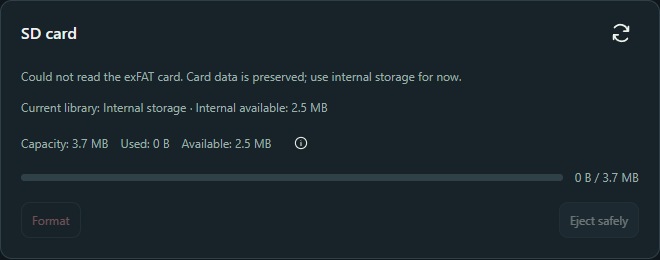
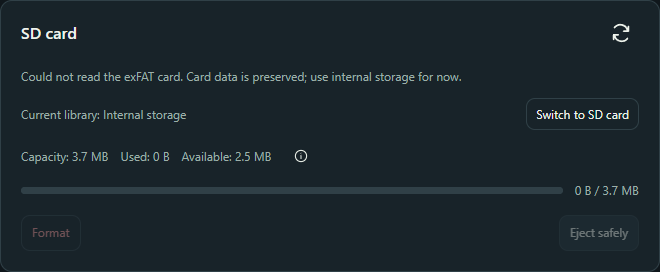
Publish sanitized firmware, controller and current bilingual previews

diff --git a/web/firmware.js b/web/firmware.js
@@ -173,10 +173,11 @@ function renderSdStatus(state){
   $('sdStatus').textContent=state.detail?tr(libraryErrors[state.detail]||state.detail):tr(state.state==='formatting'?'正在格式化 SD 卡…':state.mounted?'SD 卡已插入，状态正常':state.ejected?'SD 卡已安全弹出，可取出存储卡':state.sdFilesystem==='exfat'?(state.sdExfatSupported?'exFAT 读取失败，原卡数据保留，可先使用内置存储':'SD 卡为 exFAT，当前支持 FAT32；原卡数据保留，可先使用内置存储'):'SD 卡不可用，请检查插卡、文件系统或读卡连接');
   const internal=state.storageBackend==='internal';
   $('internalStorageStatus').hidden=!state.storageBackend;
-  $('internalStorageStatus').textContent=tr(internal?'当前稿件库：内置存储':state.storageBackend==='unavailable'?'当前稿件库：不可用':'当前稿件库：SD 卡')+(Number.isFinite(state.internalAvailableBytes)?' · '+tr('内置可用：')+documentSize(state.internalAvailableBytes):'');
-  $('internalStorage').hidden=internal||!state.storageBackend;
+  $('internalStorageStatus').textContent=tr(internal?'当前稿件库：内置存储':state.storageBackend==='unavailable'?'当前稿件库：不可用':'当前稿件库：SD 卡');
+  $('internalStorage').hidden=!state.storageBackend;
+  $('internalStorage').textContent=tr(internal?'切换到 SD 卡':'切换到内置存储');
   const internalTotal=state.internalTotalBytes,internalUsed=state.internalUsedBytes;
-  const internalCapacity=Number.isFinite(internalTotal)&&internalTotal>0&&Number.isFinite(internalUsed)&&Number.isFinite(state.internalAvailableBytes);
+  const internalCapacity=internal&&Number.isFinite(internalTotal)&&internalTotal>0&&Number.isFinite(internalUsed)&&Number.isFinite(state.internalAvailableBytes);
   $('internalCapacity').hidden=$('internalUsage').hidden=!internalCapacity;
   if(internalCapacity){
     const used=Math.max(0,Math.min(internalTotal,internalUsed)),percent=used/internalTotal*100;
@@ -189,7 +190,7 @@ function renderSdStatus(state){
   }
   const total=state.sdTotalBytes;
   const rawUsed=Number.isFinite(state.sdUsedBytes)?state.sdUsedBytes:total-state.sdFreeBytes;
-  const capacity=state.mounted!==false&&Number.isFinite(total)&&total>0&&Number.isFinite(rawUsed);
+  const capacity=state.storageBackend==='sd'&&state.mounted!==false&&Number.isFinite(total)&&total>0&&Number.isFinite(rawUsed);
   $('sdCapacity').hidden=!capacity;
   $('sdUsage').hidden=!capacity;
   if(capacity){
@@ -251,7 +252,7 @@ async function sdAction(action){
   }
   finally{finish();sdRequestPending=false;sdButtons();}
 }
-$('internalStorage').onclick=()=>sdAction('internal');
+$('internalStorage').onclick=()=>sdAction(sdState?.storageBackend==='internal'?'mount':'internal');
 $('sdMount').onclick=()=>sdAction('mount');$('sdEject').onclick=()=>sdAction('eject');$('sdFormat').onclick=()=>sdAction('format');
 $('deviceFactoryReset').onclick=async()=>{
   if(!online||busy||factoryResetConfirmPending||firmwareLocked()||firmwareState?.factoryResetSupported!==true)return;

diff --git a/web/controller.html b/web/controller.html
@@ -56,9 +56,10 @@
 <p class="context-status" id="firmwarePath"><span>SD 卡目录</span><code>/firmware/</code><button type="button" class="info-button" aria-label="固件文件命名说明" data-tooltip="固件文件名：teleprompter-p4-YYYYMMDD.N.bin；版本须与文件内版本一致。">ⓘ</button></p>
 <input id="firmwareFile" type="file" accept=".bin,application/octet-stream" hidden>
 </div></section><section class="wifi" id="sdSettings"><div class="settings-card-head"><h3 class="settings-title">SD 卡</h3><button id="sdMount" type="button" class="icon-button" data-device disabled>重新读取</button></div><div class="wifi-body">
-<p id="sdStatus" class="context-status" role="status">正在读取 SD 卡状态…</p><p id="sdCapacity" class="context-status" hidden><span id="sdTotal"></span><span id="sdUsed"></span><span id="sdFree"></span></p>
+<p id="sdStatus" class="context-status" role="status">正在读取 SD 卡状态…</p>
+<div class="storage-selection"><p id="internalStorageStatus" class="context-status" role="status"></p><button id="internalStorage" class="ghost" data-device disabled>切换到内置存储</button></div>
+<p id="sdCapacity" class="context-status" hidden><span id="sdTotal"></span><span id="sdUsed"></span><span id="sdFree"></span></p>
 <div id="sdUsage" class="sd-usage" hidden><progress id="sdUsageBar" max="100" value="0" aria-label="SD 卡已用容量"></progress><span id="sdUsagePercent" aria-hidden="true"></span></div>
-<div class="storage-selection"><p id="internalStorageStatus" class="context-status" role="status"></p><button id="internalStorage" class="ghost" data-device disabled>使用内置存储</button></div>
 <p id="internalCapacity" class="context-status storage-capacity" hidden><span id="internalTotal"></span><span id="internalUsed"></span><span id="internalFree"></span><button type="button" class="info-button" data-tooltip="内置存储保留部分空间用于安全写入和维护；可用容量已扣除预留空间。" aria-label="内置存储容量说明">ⓘ</button></p>
 <div id="internalUsage" class="sd-usage" hidden><progress id="internalUsageBar" max="100" value="0" aria-label="内置存储已用容量"></progress><span id="internalUsagePercent" aria-hidden="true"></span></div>
 <div class="wifi-actions"><button id="sdFormat" class="ghost danger" data-device disabled>格式化</button><button id="sdEject" data-device disabled>安全弹出</button></div>

diff --git a/web/screen-bars.js b/web/screen-bars.js
@@ -47,7 +47,7 @@ for(const [group,label] of [['header','标题栏内容'],['footer','状态栏内
   dialog.setAttribute('aria-labelledby',group+'FieldsTitle');
   dialog.innerHTML=`<h3 id="${group}FieldsTitle">${label}</h3><div class="actions"><button type="button">完成</button></div>`;
   dialog.querySelector('.actions').before(fields);barsSection.append(dialog);
-  const button=document.createElement('button');button.type='button';button.textContent=label;button.dataset.barDialog=dialog.id;
+  const button=document.createElement('button');button.type='button';button.textContent='设置'+label;button.dataset.barDialog=dialog.id;
   button.onclick=()=>{dialog.showModal();motionEnter(dialog,'dialog');};barFieldActions.append(button);
   dialog.querySelector('.actions button').onclick=()=>dialog.close();
 }

diff --git a/firmware/p4/main/web_asset_tags.h b/firmware/p4/main/web_asset_tags.h
@@ -1,5 +1,5 @@
 /* Generated by tools/sync-web-pages.py. */
 #pragma once
-#define TP_EDITOR_IDENTITY_ETAG "\"cf506f935058aa2b6dd9cca92dd3fff78b12449bea227651041bf0e09e0af3eb\""
-#define TP_EDITOR_GZIP_ETAG "\"bcd5062aecb53b1bd3da99ee169c645e34df11536b600ed840693b0424ac70ab\""
+#define TP_EDITOR_IDENTITY_ETAG "\"24cc08d55901dfd9d03d9f6288bc6d6c4dfd11c7ec257fab8f936bda6298ef70\""
+#define TP_EDITOR_GZIP_ETAG "\"4fdea3bb6f077ecac9e48aa37bd37065097c440a68e2a70a6125f98a4b008834\""
 #define TP_FONT_ETAG "\"adb96e78ec70ebd532085020fe66879df4eac572f8168811e045c92f452d9253\""

diff --git a/docs/TEST-PLAN.md b/docs/TEST-PLAN.md
@@ -1,3 +1,23 @@
+# 20261122.6 affected validation / 定向回归
+
+Chromium and WebKit each passed 32 viewport/theme/language combinations, bidirectional virtual library switching, current-library-only capacity, canceled active-manuscript switching, recovery-entry visibility and both configuration dialogs. The exact private .6 image was installed and passed real SD/internal switching, capacity visibility, responsive geometry and dialogs, retaining both original lists and settings; the pre-flash internal selection was restored. Only boot/revision/client-count dynamic response fields are excluded from settings comparison. No formatting, media-removal or power-cut test was repeated.
+
+Public independent .6 is compiled only, not installed. Private results do not validate this separate public image. Existing accepted unaffected baselines continue. Android testing paused; C6 untouched. Demo/App shared assets and English/Chinese virtual previews synchronized. No new mandatory human observation.
+
+Optional reproduction: Settings → SD card → switch to internal → verify only internal capacity plus “Switch to SD card” → switch to SD → verify only SD capacity and original SD list. Active manuscripts require confirmation and stop; no files are copied/merged. Restore your original selection. Open/close header/status configuration dialogs without saving. Report version, active library, physical SD state, screenshots and console errors if any; do not format to troubleshoot.
+
+中文：内部精确版实装定向回归通过，两库及配置保留；公开独立版未安装。原SD开机优先规则保留。无新增必须人工测试，不重复未受影响项。
+
+---
+
+# Test and handoff / 测试与交接 — 20261122.6
+
+The SD/internal manuscript-library switch stays available in both directions. Only active-library capacity is displayed; SD physical status remains separate. Field-picker buttons explicitly say “Configure”. Two libraries remain independent, no file copying/overwriting; restart selection stays unchanged. Affected browser/installed results are recorded when complete. Public independent .6 is compiled, not installed. Preserve originals/settings; no new media/power-cut tests, Android paused, C6 untouched.
+
+中文：仅回归双向切库、当前库容量、无卡恢复入口、取消确认及响应布局/翻译/设置弹窗；保留未受影响基线，无新增必须人工测试。
+
+---
+
 # Test and handoff / 测试与交接 — 20261122.5
 
 Download hash verification, transfer initialization and device final verification show indeterminate banner spinners instead of stale 100%. Local stages clear on success/failure and leave native OTA state unchanged. Retain .4 banner/countdown and unaffected accepted results. Chromium/WebKit upload initialization, final verification, success/failure cleanup and lifecycle regressions passed; online SHA verification and corrupt rejection passed. Internal .5 was USB-installed and passed embedded-page wait-stage/stale-progress isolation and real startup circular progress with originals preserved; unaffected .4 layout baselines remain valid; publication is separately verified; public independent .5 is not installed. Android paused, C6 untouched, no new mandatory physical tests.

diff --git a/README.md b/README.md
@@ -4,7 +4,7 @@
 
 An ESP32-P4 teleprompter with SD and independent internal manuscript storage, a device screen and a responsive web controller. Firmware and web source live in this repository. No native Android or iOS project is included.
 
-Version `20261122.5` uses task banners for power/restart/reset/update progress, with a right-side spinner or circular percentage meter. All banners have severity icons; ordinary countdown/playback states emit no notifications. See the [notification inventory](docs/NOTIFICATIONS.md) and [test/handoff](docs/TEST-PLAN.md). The independent public .5 BIN is compiled, not installed; public .1 hardware results are a historical baseline.
+Version `20261122.6` adds an explicit bidirectional SD/internal manuscript-library switch, shows capacity only for the active library, and clarifies header/status configuration buttons. Libraries remain independent; no files are copied or overwritten. Public .6 is independently compiled, not installed. See [test/handoff](docs/TEST-PLAN.md).
 
 **Storage:** exFAT and FAT12/16/32 are supported. An unavailable SD card can fall back to the independent internal library; unknown occupied internal partitions stay protected. Physical interrupted-write tests recovered in the observed phases. Occasional scrolling jitter and intermittent loading/discovery delays are not claimed eliminated; current behavior was accepted by the tester.
 

diff --git a/README.zh-CN.md b/README.zh-CN.md
@@ -4,7 +4,7 @@
 
 基于 ESP32-P4 的屏幕提词器，包含 SD 与独立内置稿件库、真机显示界面和响应式网页控制台。固件与网页源码放在同一个仓库，不包含安卓或 iOS 原生项目。
 
-`20261122.5`将开关机/重启/恢复出厂/升级过程改为任务条幅，右侧显示加载圈或居中百分比的圆形进度条；全部条幅加类型图标，正常倒计时/播放状态不弹通知。见[完整分类](docs/NOTIFICATIONS.md)和[测试交接](docs/TEST-PLAN.md)。公开独立.5仅编译、未安装，公开.1实装保留为历史基线。
+`20261122.6`补齐SD/内置库双向切换按钮，只显示当前库的容量，并明确标题栏/状态栏内容设置入口。两库独立，不自动复制或覆盖。公开独立.6仅编译、未安装，见[测试交接](docs/TEST-PLAN.md)。
 
 **存储：** 支持exFAT与FAT12/16/32，SD不可用时可切换独立内置库，继续保护未知已有分区。本轮实际写入拔卡和断电在已观察阶段恢复正常。偶发滚动抖动、冷开或蓝牙发现延迟不声称根除，当前体验已获测试者接受。
 

diff --git a/CHANGES.md b/CHANGES.md
@@ -1,3 +1,12 @@
+## 20261122.6 — 2026-11-22
+
+- Keep the storage selector visible in both directions. The active internal library offers “Switch to SD card”; the SD library offers “Switch to internal storage”. Use the existing isolated library-switch operations without merging or overwriting manuscripts.
+- Display only the active library's total, used, available capacity and usage bar. Retain the SD physical status separately.
+- Rename field-picker buttons to “Configure header information” and “Configure status bar information”, including live language switching.
+- Validate affected layout, capacity visibility, library roundtrip, unavailable recovery and cancellation. Unaffected accepted baselines remain valid. Public independent .6 is not installed.
+
+---
+
 ## 20261122.5 — 2026-11-22
 
 - Show indeterminate banner spinners while checking the downloaded SHA, waiting for transfer initialization, and finalizing the device image. Clear local stages on success or failure; never retain the old transfer percentage during verification.
